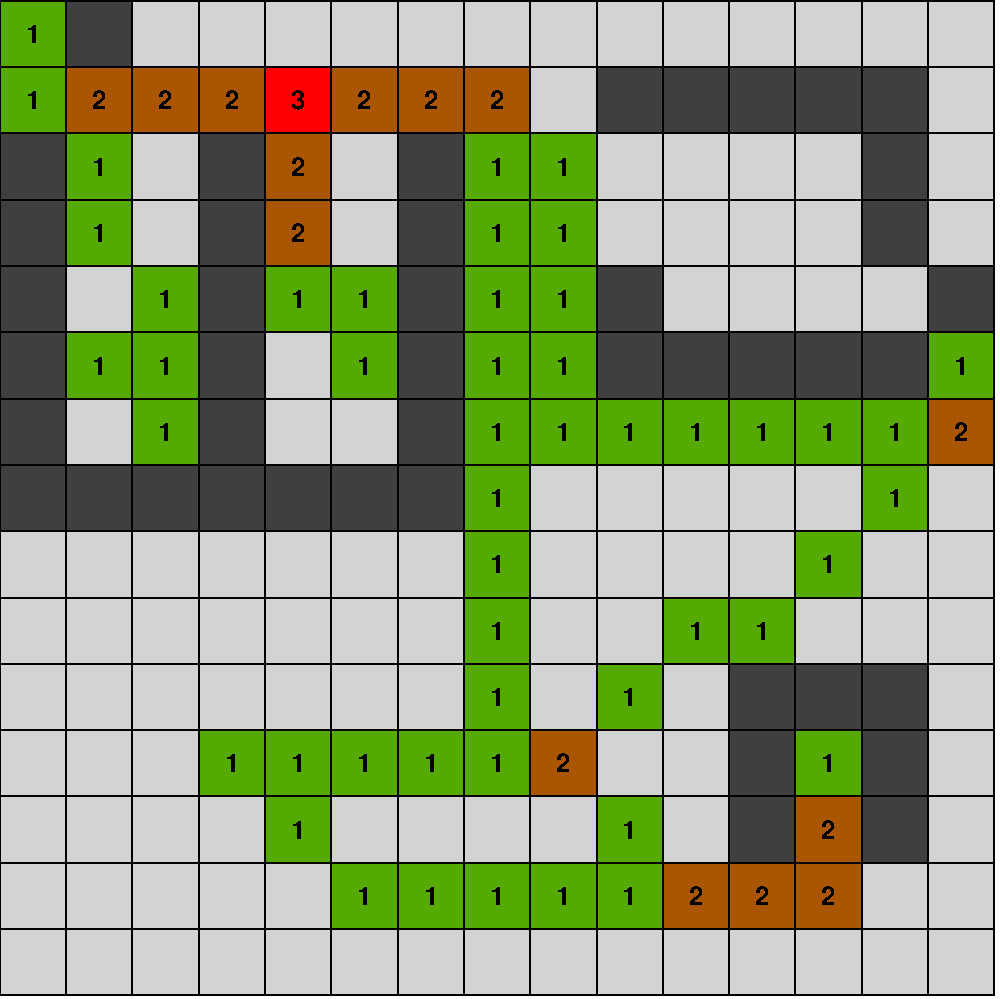
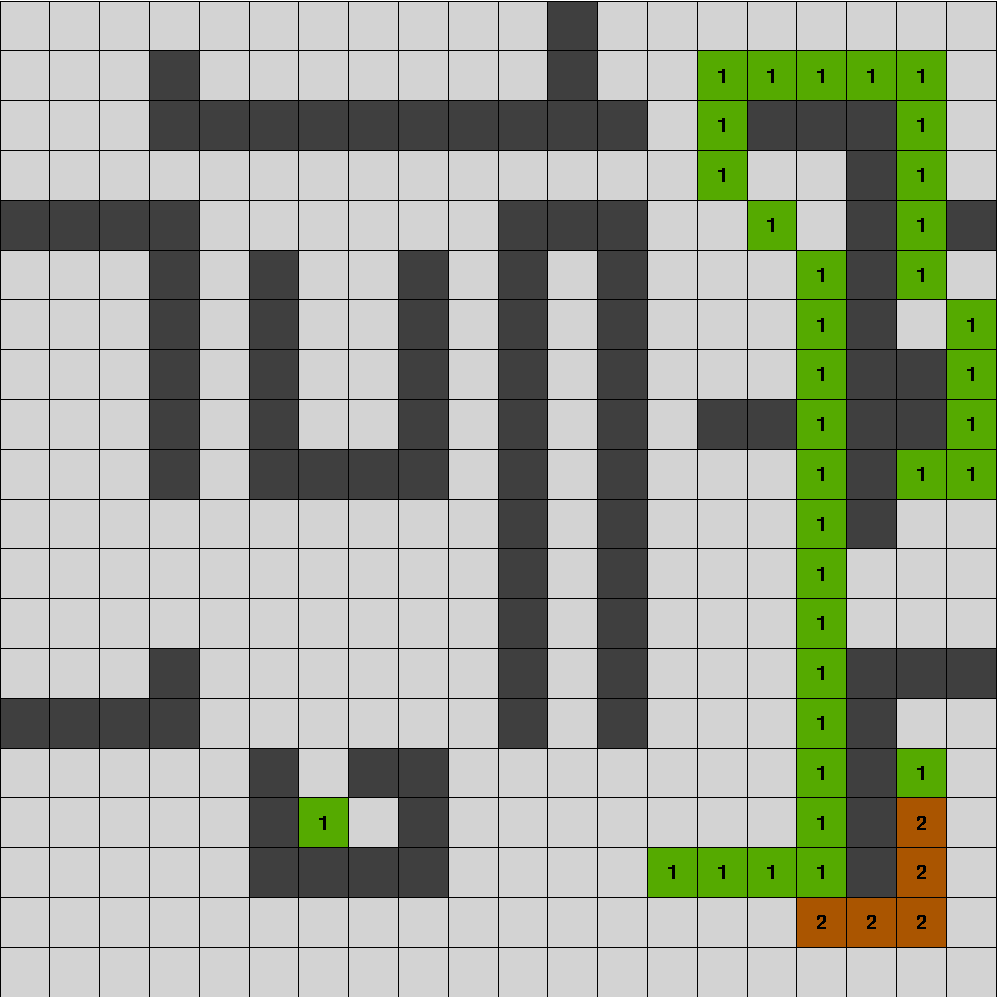
add switch floor buttons

diff --git a/map_visualizer.py b/map_visualizer.py
@@ -49,9 +49,6 @@ class MapGUI:
         self.num_agents = len(self.paths)
         self.current_agent_path_indexes = [0] * self.num_agents
         self.current_agent_turn = 0
-        self.current_floor = self.paths[self.current_agent_turn][
-            self.current_agent_path_indexes[self.current_agent_turn]
-        ][0]
 
         self.starts = starts
         self.targets = targets
@@ -75,6 +72,7 @@ class MapGUI:
         self.current_position_var = StringVar()
         self.current_point_var = StringVar()
         self.current_floor_var = StringVar()
+        self.current_agent_var = StringVar()
         self.current_agent_turn_var = StringVar()
 
         self.info_panel = Frame(
@@ -120,15 +118,20 @@ class MapGUI:
         ttk.Label(self.info_panel, textvariable=self.current_point_var, font=(
             "default", font_size), anchor="w").grid(row=1, column=1, sticky='w', padx=10)
 
-        ttk.Label(self.info_panel, text="Current floor:", font=(
+        ttk.Label(self.info_panel, text="Current viewing floor:", font=(
             "default", font_size), anchor="w").grid(row=2, column=0, sticky='w', padx=10)
         ttk.Label(self.info_panel, textvariable=self.current_floor_var, font=(
             "default", font_size), anchor="w").grid(row=2, column=1, sticky='w', padx=10)
 
-        ttk.Label(self.info_panel, text="Current agent turn:", font=(
+        ttk.Label(self.info_panel, text="Current viewing agent:", font=(
             "default", font_size), anchor="w").grid(row=3, column=0, sticky='w', padx=10)
-        ttk.Label(self.info_panel, textvariable=self.current_agent_turn_var, font=(
+        ttk.Label(self.info_panel, textvariable=self.current_agent_var, font=(
             "default", font_size), anchor="w").grid(row=3, column=1, sticky='w', padx=10)
+
+        ttk.Label(self.info_panel, text="Current agent turn:", font=(
+            "default", font_size), anchor="w").grid(row=4, column=0, sticky='w', padx=10)
+        ttk.Label(self.info_panel, textvariable=self.current_agent_turn_var, font=(
+            "default", font_size), anchor="w").grid(row=4, column=1, sticky='w', padx=10)
 
         # Buttons
         self.control_panel.columnconfigure(0, weight=1)
@@ -156,6 +159,17 @@ class MapGUI:
         ttk.Button(self.control_panel, text="EXPORT ALL HEATMAP", command=self.export_heatmap).grid(
             row=5, column=3, columnspan=2, sticky=(W, E), padx=5)
 
+        self.focus_mode = 'agent'
+        self.current_agent_focus = 0
+        self.current_floor_focus = 0
+        # button to switch floor (rotate the current floor)
+        ttk.Button(self.control_panel, text="SWITCH FLOOR", command=self.switch_floor).grid(
+            row=6, column=2, sticky=(W, E), padx=5)
+
+        # button to switch agent (rotate the current agent)
+        ttk.Button(self.control_panel, text="SWITCH AGENT", command=self.switch_agent).grid(
+            row=6, column=3, sticky=(W, E), padx=5)
+
         # is_looping
         self.is_looping = True
 
@@ -164,6 +178,34 @@ class MapGUI:
         self.setup()
         self.draw_grid()
         self.root.mainloop()
+
+    def get_current_floor(self):
+        if self.focus_mode == 'agent':
+            return self.paths[self.current_agent_focus][
+                self.current_agent_path_indexes[self.current_agent_focus]
+            ][0]
+        else:
+            return self.current_floor_focus
+
+    def switch_floor(self):
+        # switch the current floor
+        if self.focus_mode == 'agent':
+            self.focus_mode = 'floor'
+        else:
+            self.current_floor_focus = (
+                self.current_floor_focus + 1) % self.floors
+        self.update_labels()
+        self.draw_grid()
+
+    def switch_agent(self):
+        # switch the current agent
+        if self.focus_mode == 'floor':
+            self.focus_mode = 'agent'
+        else:
+            self.current_agent_focus = (
+                self.current_agent_focus + 1) % self.num_agents
+        self.update_labels()
+        self.draw_grid()
 
     def export_heatmap(self):
         # remove all the png files in the heatmap-output folder
@@ -182,7 +224,8 @@ class MapGUI:
 
         for turn, path in enumerate(self.paths):
             for floor in range(self.floors):
-                self.current_floor = floor
+                self.focus_mode = 'floor'
+                self.current_floor_focus = floor
                 self.current_agent_turn = turn
                 self.is_heatmap = True
                 self.draw_grid()
@@ -220,9 +263,12 @@ class MapGUI:
         )
         self.current_floor_var.set(
             str(
-                self.paths[self.current_agent_turn][
-                    self.current_agent_path_indexes[self.current_agent_turn]
-                ][0]
+                self.get_current_floor()
+            )
+        )
+        self.current_agent_var.set(
+            str(
+                self.current_agent_focus + 1 if self.focus_mode == 'agent' else 'N/A'
             )
         )
         self.current_point_var.set(
@@ -244,9 +290,6 @@ class MapGUI:
         # update the current position
         self.current_agent_path_indexes = [0] * self.num_agents
         self.current_agent_turn = 0
-        self.current_floor = self.paths[self.current_agent_turn][
-            self.current_agent_path_indexes[self.current_agent_turn]
-        ][0]
 
         # update the labels
         self.update_labels()
@@ -254,14 +297,9 @@ class MapGUI:
         self.draw_grid()
 
     def to_end(self):
-        # TODO: fix for multiple agents
-        # update the current position
         self.current_agent_path_indexes = [
             len(path) - 1 for path in self.paths]
-        self.current_agent_turn = self.num_agents - 1
-        self.current_floor = self.paths[self.current_agent_turn][
-            self.current_agent_path_indexes[self.current_agent_turn]
-        ][0]
+        self.current_agent_turn = 0
 
         # update the labels
         self.update_labels()
@@ -277,10 +315,6 @@ class MapGUI:
 
         self.current_agent_turn = (
             self.current_agent_turn - 1) % self.num_agents
-
-        self.current_floor = self.paths[self.current_agent_turn][
-            self.current_agent_path_indexes[self.current_agent_turn]
-        ][0]
 
         # update the labels
         self.update_labels()
@@ -298,10 +332,6 @@ class MapGUI:
 
         self.current_agent_turn = (
             self.current_agent_turn + 1) % self.num_agents
-
-        self.current_floor = self.paths[self.current_agent_turn][
-            self.current_agent_path_indexes[self.current_agent_turn]
-        ][0]
 
         # update the labels
         self.update_labels()
@@ -367,12 +397,13 @@ class MapGUI:
         # color the grids, only in the current floor
         for row in range(self.num_rows):
             for col in range(self.num_columns):
-                cell_value = self.grid[self.current_floor][row][col]
+                cell_value = self.grid[self.get_current_floor()][row][col]
                 if cell_value == "-1":
                     self.draw_cell(
                         row, col, background_fill=MapGUI.COLOR_BLOCKED)
                 else:
-                    cur_freq = self.freq[self.current_agent_turn][self.current_floor][row][col]
+                    cur_freq = self.freq[self.current_agent_turn][self.get_current_floor(
+                    )][row][col]
                     if cur_freq == 0:
                         self.draw_cell(
                             row, col, background_fill=MapGUI.COLOR_EMPTY)
@@ -391,7 +422,7 @@ class MapGUI:
     def color_grids(self):
         for row in range(self.num_rows):
             for col in range(self.num_columns):
-                cell_value = self.grid[self.current_floor][row][col]
+                cell_value = self.grid[self.get_current_floor()][row][col]
                 if cell_value == "-1":
                     self.draw_cell(
                         row, col, background_fill=MapGUI.COLOR_BLOCKED)
@@ -435,7 +466,7 @@ class MapGUI:
 
             current_path_index = self.current_agent_path_indexes[turn]
 
-            if path[current_path_index][0] == self.current_floor:
+            if path[current_path_index][0] == self.get_current_floor():
                 self.draw_agent(
                     path[current_path_index][1],
                     path[current_path_index][2],
@@ -470,7 +501,8 @@ class MapGUI:
 
     def color_starts(self):
         for i, start in enumerate(
-            list(filter(lambda x: x[0] == self.current_floor, self.starts))
+            list(filter(lambda x: x[0] ==
+                 self.get_current_floor(), self.starts))
         ):
             self.draw_cell(
                 start[1],
@@ -484,7 +516,7 @@ class MapGUI:
         if not self.is_level4:
             for i, target in enumerate(
                 list(filter(lambda x: x[0] ==
-                     self.current_floor, self.targets))
+                     self.get_current_floor(), self.targets))
             ):
                 self.draw_cell(
                     target[1],
@@ -498,7 +530,7 @@ class MapGUI:
             # get the current list of targets
             current_targets = []
             for i, target in enumerate(self.targets):
-                if target[self.current_agent_path_indexes[i]][0] == self.current_floor:
+                if target[self.current_agent_path_indexes[i]][0] == self.get_current_floor():
                     current_targets.append(
                         target[self.current_agent_path_indexes[i]])
                 else:
